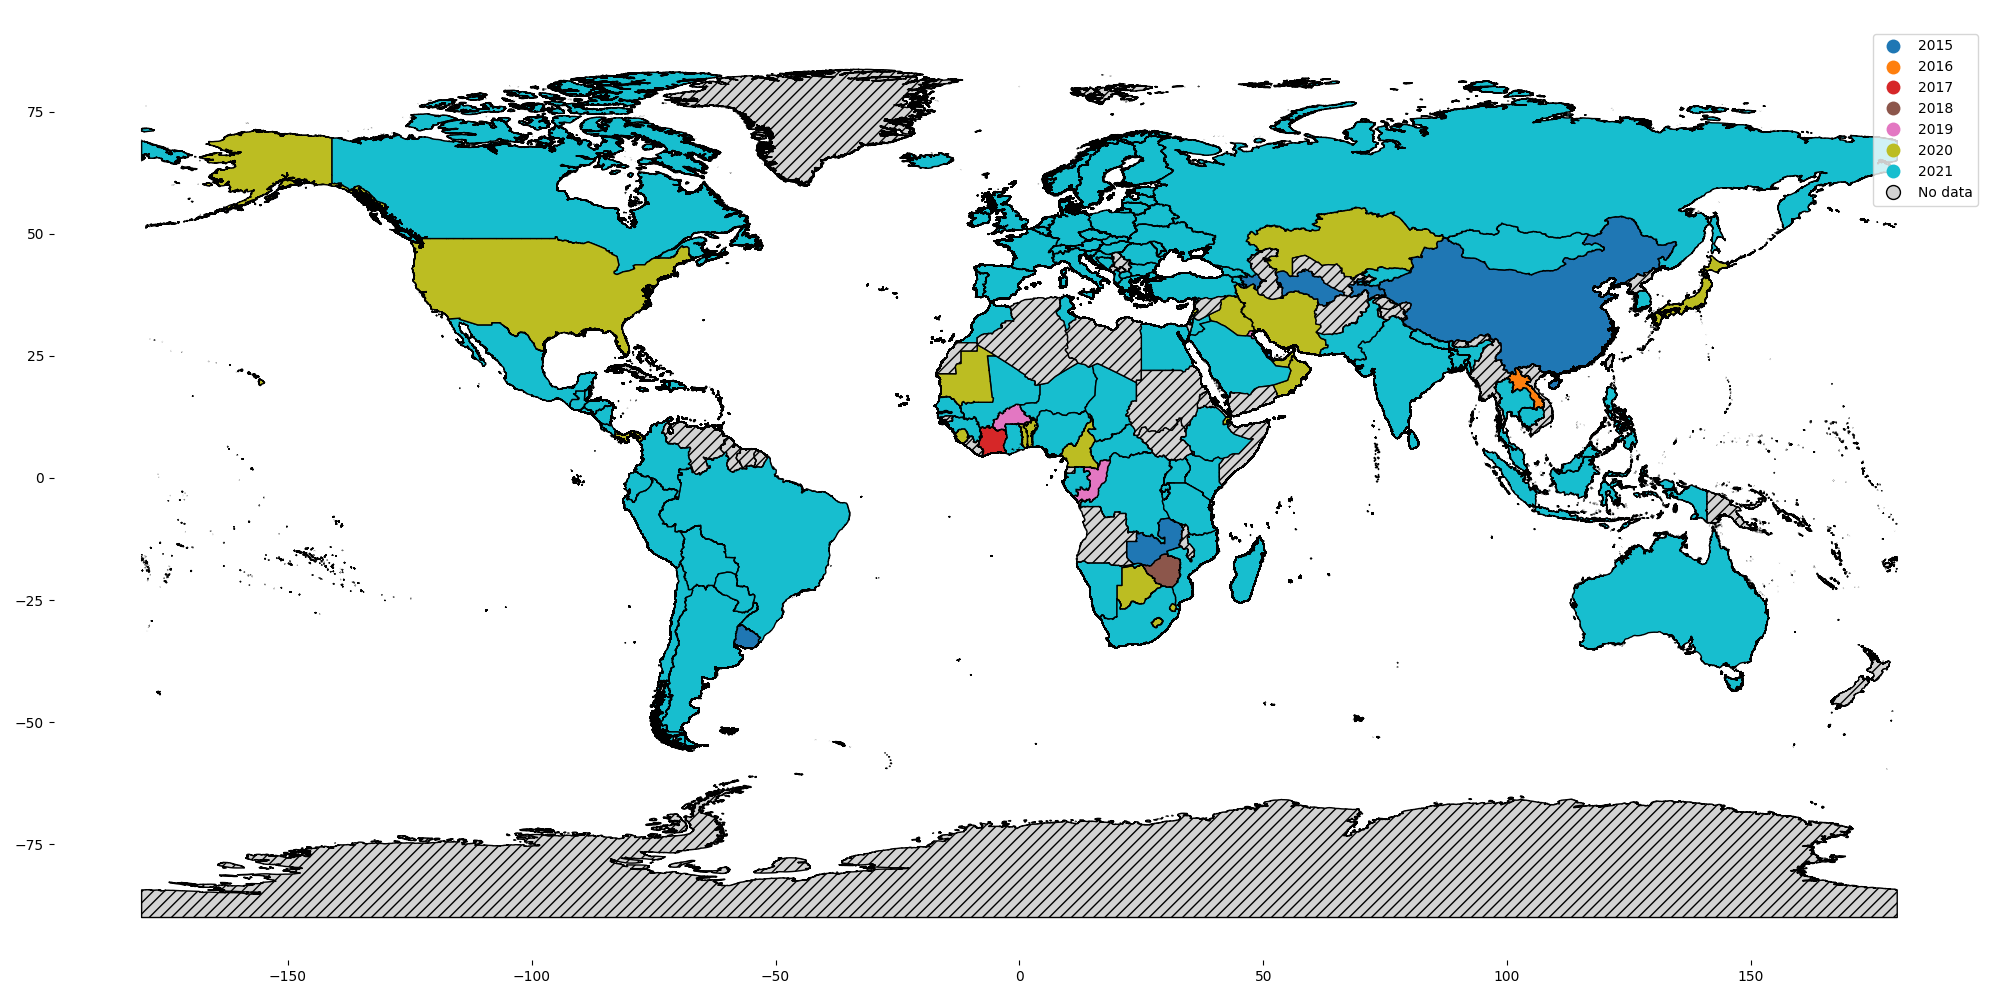
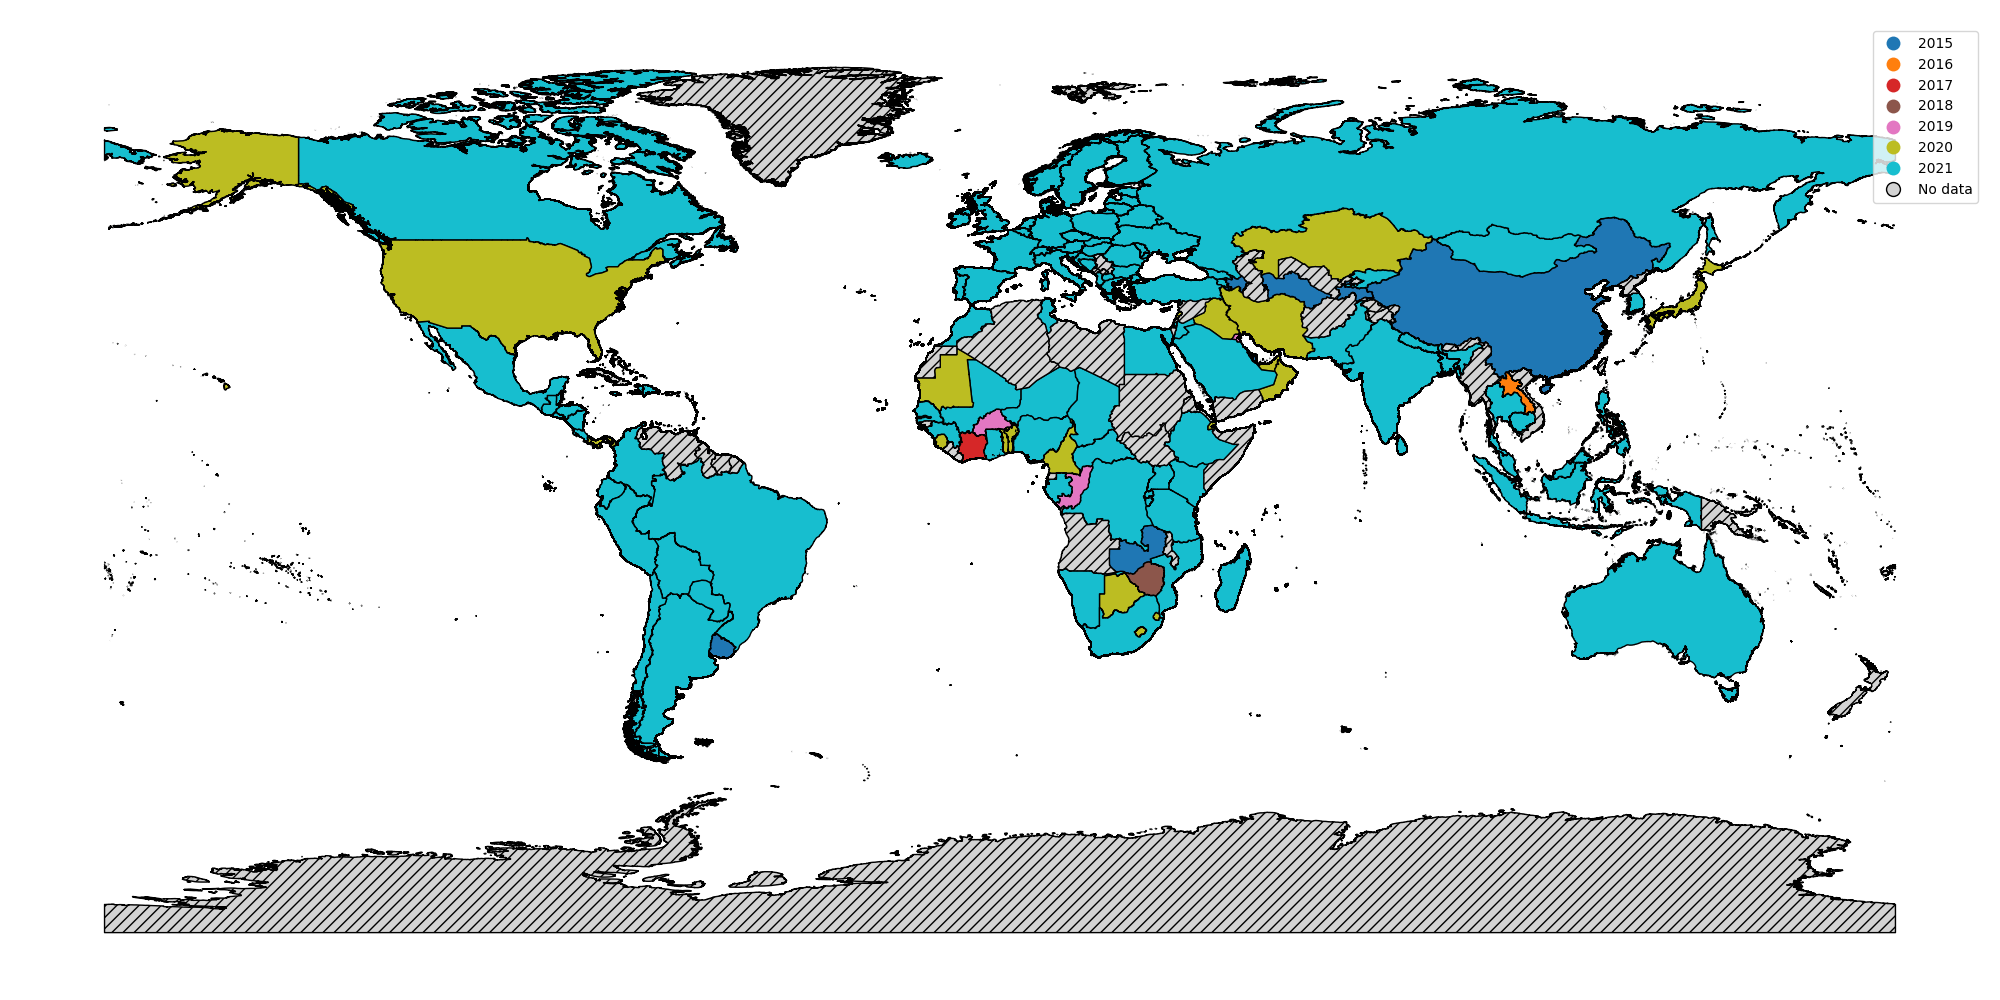
Remove axis from maps

diff --git a/main.py b/main.py
@@ -99,6 +99,7 @@ def plot_hist(total_wealth_df):
     plt.xlabel('Government spending as a percentage of total national wealth')
     plt.ylabel('Frequency')
 
+    sns.despine()
     plt.tight_layout()
     plt.savefig('out/histogram.png')
     plt.close()
@@ -107,9 +108,10 @@ def plot_bar(sorted_df):
     _, ax = plt.subplots(figsize=(10, 40))
 
     sns.barplot(data=sorted_df, x='percent', y='country_name')
-
     plt.xlabel('Government spending as a percentage of total national wealth')
     plt.title('Government spending as a percentage of total national wealth')
+
+    sns.despine()
     plt.tight_layout()
     plt.savefig('out/bar.png')
     plt.close()
@@ -139,7 +141,7 @@ def plot_map(merged):
             "label": "No data",
         }
     )
-    sns.despine(ax=ax, left=True, bottom=True)
+    ax.set_axis_off()
     plt.tight_layout()
     plt.savefig('out/map.png')
     plt.close()
@@ -157,7 +159,7 @@ def plot_year(merged):
             "label": "No data",
         }
     )
-    sns.despine(ax=ax, left=True, bottom=True)
+    ax.set_axis_off()
     plt.tight_layout()
     plt.savefig('out/year.png')
     plt.close()
